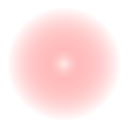
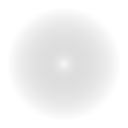
LightSpeed: change astronaut particle color
Change particle color to light blue

https://phabricator.endlessm.com/T26113

Changed region(s): [[0.1875, 0.1875, 0.8125, 0.8125]]

diff --git a/com.endlessm.LightSpeed/app/levelScene.js b/com.endlessm.LightSpeed/app/levelScene.js
@@ -5,7 +5,7 @@
  * Author: Juan Pablo Ugarte <ugarte@endlessm.com>
  */
 
-/* exported LevelScene, CONFETTI_COLORS */
+/* exported LevelScene, CONFETTI_COLORS, ASTRONAUT_PARTICLE_COLORS */
 /* global Ship, enemyTypes, saveState, shipTypes, powerupTypes,
     SpawnAstronautScope, SpawnEnemyScope, UpdateEnemyScope, SpawnPowerupScope,
     ActivatePowerupScope, resetGlobalCounters */
@@ -18,6 +18,12 @@ const CONFETTI_COLORS = [
     0xfde82a,
     0x00ffee,
     0xff0099,
+];
+
+const ASTRONAUT_PARTICLE_COLORS = [
+    0x7cd7f7,
+    0x67ccf1,
+    0x00aeef,
 ];
 
 function getUserFunction(code) {
@@ -598,7 +604,7 @@ class LevelScene extends Phaser.Scene {
                 scale: {start: 0.6, end: 0},
                 blendMode: 'ADD',
                 lifespan: 1000,
-                tint: CONFETTI_COLORS,
+                tint: ASTRONAUT_PARTICLE_COLORS,
             }).startFollow(obj);
         }
     }

diff --git a/com.endlessm.LightSpeed/app/titleScene.js b/com.endlessm.LightSpeed/app/titleScene.js
@@ -86,6 +86,7 @@ class TitleScene extends Phaser.Scene {
             scale: {start: 1, end: 0},
             blendMode: 'ADD',
             lifespan: 3000,
+            tint: ASTRONAUT_PARTICLE_COLORS,
         });
         emitter.startFollow(this.astronaut);
 
